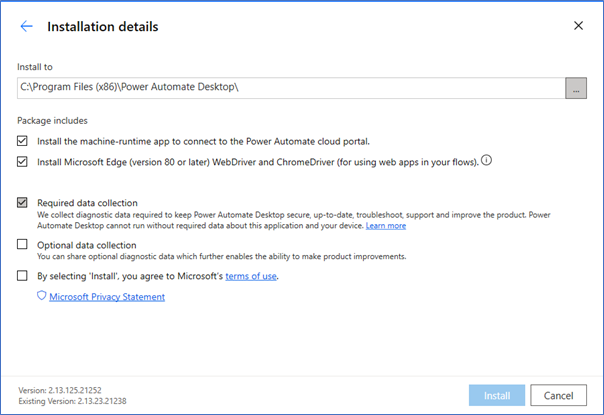
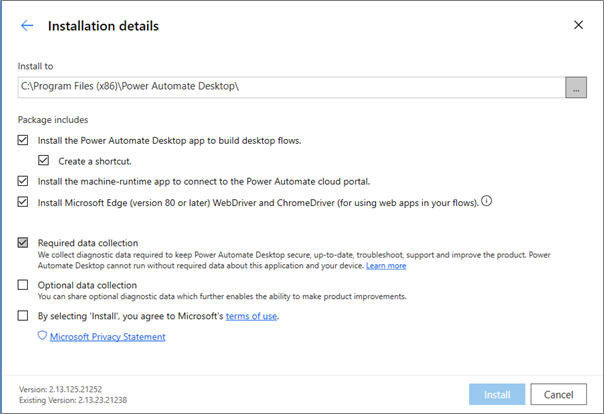
Applied Quentin feedback changes

Changed region(s): [[0.0, 0.0, 1.0, 1.0], [0.9536, 0.1739, 0.9834, 0.2029], [0.9536, 0.058, 0.9834, 0.087]]

diff --git a/articles/desktop-flows/manage-machine-groups.md b/articles/desktop-flows/manage-machine-groups.md
@@ -47,7 +47,7 @@ You can also create a machine group directly from Power Automate:
 
 You will need at least one machine in your group to run desktop flows. 
 
-1.	In the Power Automate machine runtime, select **Machine groups**
+1.	In the Power Automate machine runtime, select **Machine group**
 1.	In the displayed list, you can find all the available machine groups. To add the machine to a machine group, select the desired group and fill in the required credentials.
 
     ![Add to machine group](./media/manage-machine-groups/add-machine-group.png)
@@ -58,6 +58,9 @@ You will need at least one machine in your group to run desktop flows.
 1.	Select **Add machine**.
 
 When you add your machine to a group, any connections currently targeting your machine will break. You will need to update those connections to target the machine group.
+
+>[!IMPORTANT]
+>In order to register your machine, you need to have an Organization premium account.
 
 ## Trigger a desktop flow to run on your machine group 
 
@@ -175,11 +178,11 @@ If you want to remove the machine from a group without adding it to a new one, s
 
 ## Change machine group's password
 
-To change the password of the currently used machine group, select the **dots icon** next to the machine group and pick **Edit group password**.
-
-![The Edit group password option.](./media/manage-machine-groups/edit-machine-group-password.png)
+To change the password of the currently used machine group, click on the ellipses next to the machine group and select **Edit group password**.
 
 Next, populate the **New password** and **Confirm password** fields, and select the **Change** button to confirm the changes.
+
+
 
 ![The fields for the new mahcine group password.](./media/manage-machine-groups/machine-group-new-password.png)
 

diff --git a/articles/desktop-flows/install.md b/articles/desktop-flows/install.md
@@ -45,7 +45,7 @@ The installer allows you to install two different apps on your device:
 
 - Power Automate machine runtime app allows you to connect your machine to the Power Automate cloud. It allows you to harness the full power of your robotic process automation (RPA). Learn more about [machine management](https://docs.microsoft.com/power-automate/desktop-flows/manage-machines). 
 
-By default, both are installed on the  
+By default, both are installed on your device.  
 
 >[!IMPORTANT]
 >The installer installs the Webdriver component. You need it to run desktop flows created with Selenium IDE.
@@ -53,9 +53,13 @@ By default, both are installed on the
 
 ![Installation options image.](../media/desktop-flows-setup/installer-checkboxes.png)
 
+>[!IMPORTANT]
+>In order to register your machine, you need to have an Organization premium account.
+
 >[!NOTE]
 >Power Automate Desktop by default honors the proxy settings specified in Windows. To override this configuration, refer to [Power Automate Desktop using a proxy server](governance.md#configure-power-automate-desktop-to-interact-with-a-corporate-proxy-server).
 
+<!--- TO BE ADDED AFTER Oct 5th---
 ## Install Power Automate desktop app from the Microsoft Store 
 
 There are a few ways to access the most recent version of Power Automate Desktop from the Microsoft Store. 
@@ -67,6 +71,7 @@ There are a few ways to access the most recent version of Power Automate Desktop
     - Go to the [Power Automate product page](https://flow.microsoft.com/desktop/), and then select Download Free. 
 
 1. After you've landed on the Power Automate page of the Microsoft Store, select Install. 
+-->
 
 ### Set data collection options
 

diff --git a/articles/desktop-flows/troubleshoot.md b/articles/desktop-flows/troubleshoot.md
@@ -31,7 +31,7 @@ To open the troubleshoot tool:
 1. Select **Launch Troubleshoot tool**  
 
 >[!NOTE]
->You need to have admin privileges to open the troubleshoot tool from Power Automate Desktop  
+>You need to have admin privileges to open the troubleshoot tool from Power Automate machine runtime.  
 
 ## Resolve sign in and sign out issues
 
